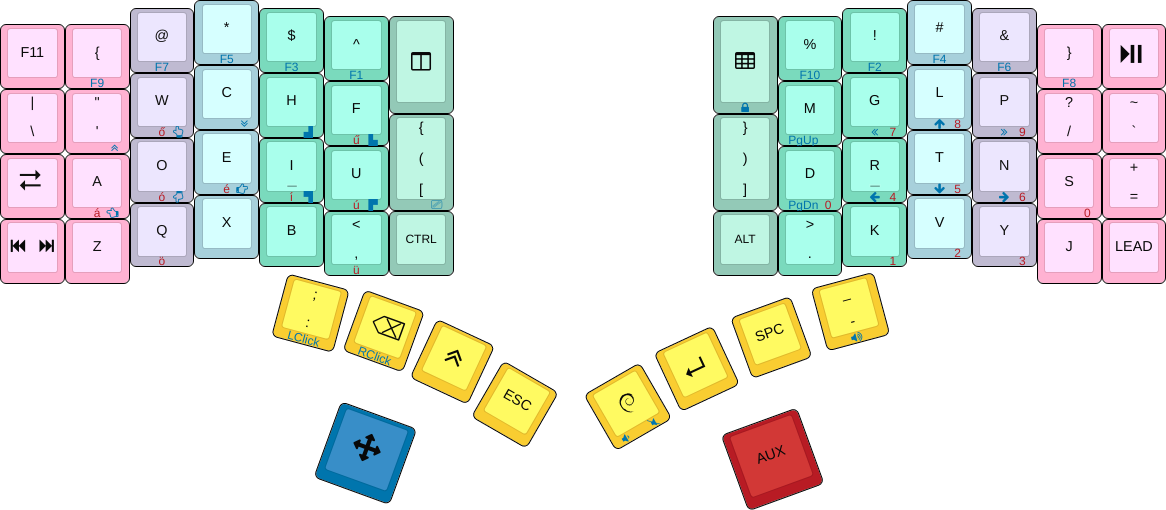
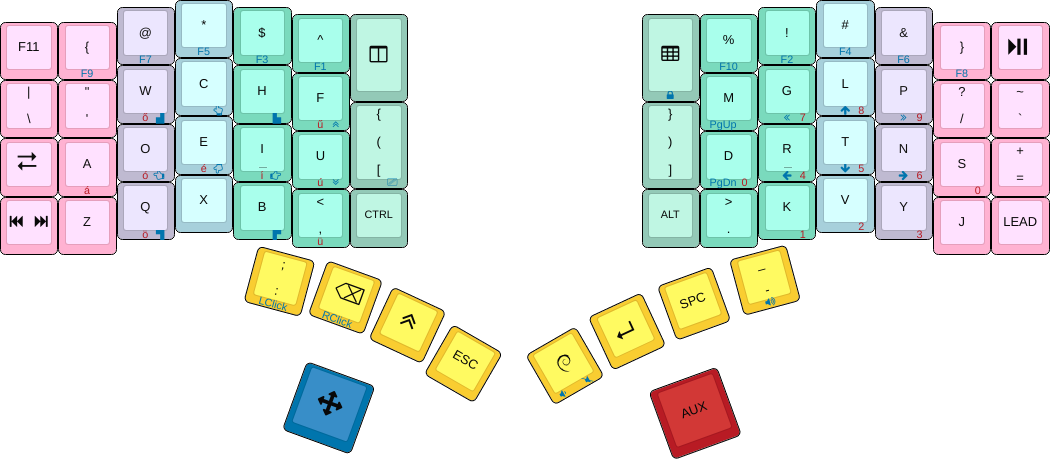
Rearrange the mouse keys
Moved the movement keys one column to the right, placed the warping around them,
and the scroll keys to their right, to mirror the `PgUp`/`PgDn` keys on the
other half of the keyboard.

Fixes #59.

diff --git a/src/keymap.h b/src/keymap.h
@@ -112,9 +112,9 @@ const Key keymaps[][ROWS][COLS] PROGMEM = {
   [_NAV] = KEYMAP_STACKED
   (
     ___ ,Key_F9 ,Key_F7 ,Key_F5 ,Key_F3 ,Key_F1 ,XXX
-   ,XXX ,MS_SUP ,MM(Up) ,MS_SDN ,MW(NW) ,MW(NE) ,MW(End)
-   ,XXX ,MM(L)  ,MM(Dn) ,MM(R)  ,MW(SW) ,MW(SE)
-   ,___ ,XXX    ,XXX    ,XXX    ,XXX    ,XXX    ,___
+   ,XXX ,XXX    ,MW(NW) ,MM(Up) ,MW(NE) ,MS_SUP ,MW(End)
+   ,XXX ,XXX    ,MM(L)  ,MM(Dn) ,MM(R)  ,MS_SDN
+   ,___ ,XXX    ,MW(SW) ,XXX    ,MW(SE) ,XXX    ,___
 
    ,MM(BtnL) ,MM(BtnR) ,___ ,___
    ,___
